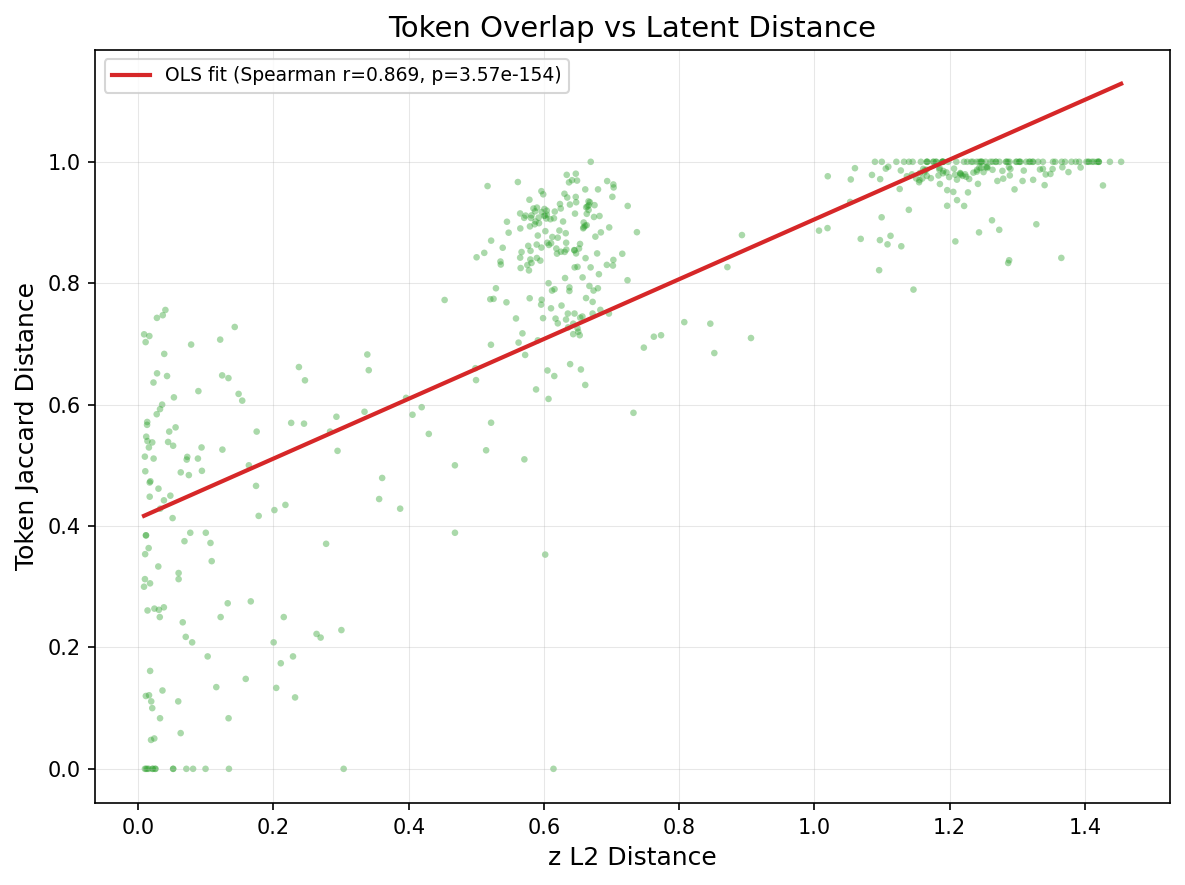
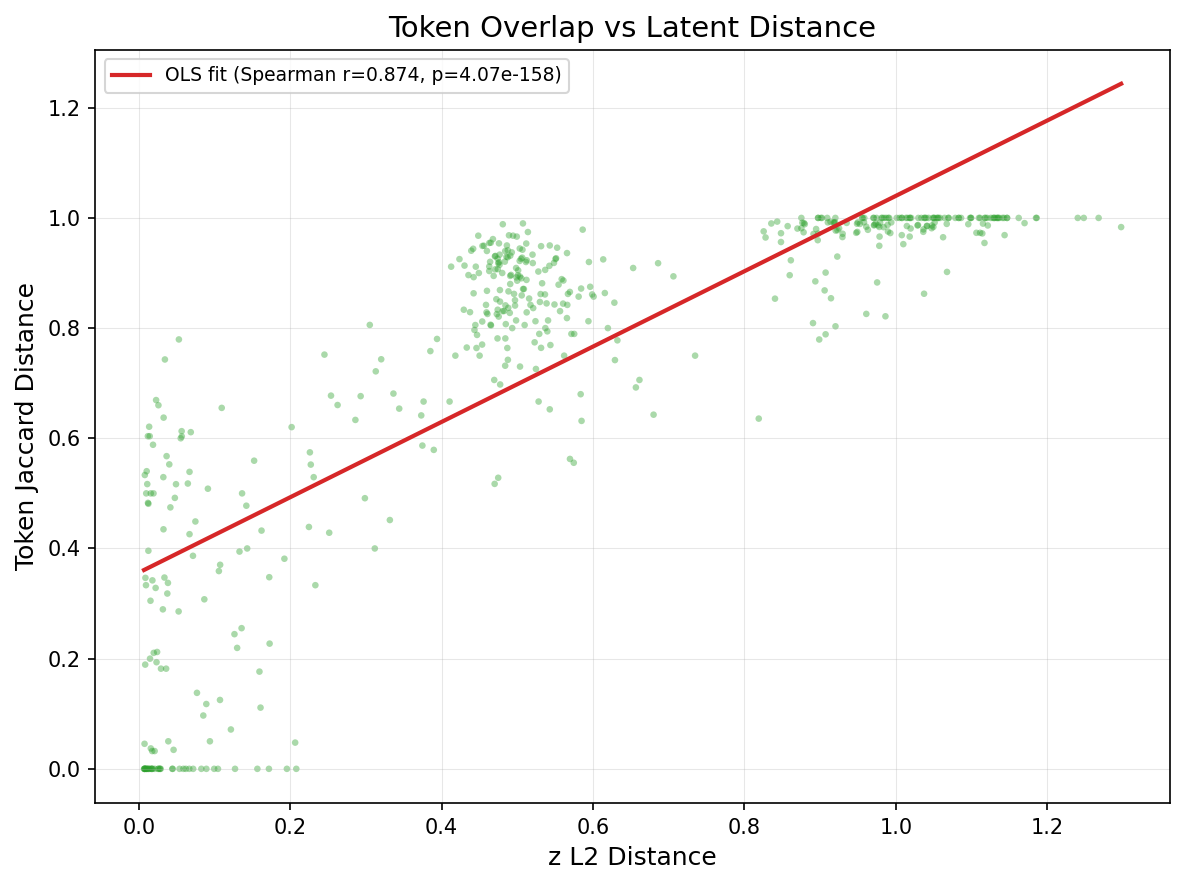
feat: Hindi/Arabic IPA sanitization + epoch 36 visualizations
- Pre-filter Hindi/Arabic source text: reject code-mixed lines (>50%
  Latin loanwords), strip ASCII loanwords before epitran conversion
- Post-process Hindi IPA: strip leaked Devanagari, apply word-final
  schwa deletion (Ohala 1983 rule)
- Post-process Arabic IPA: strip leaked Arabic script characters
- Fix clustering heatmap: larger figure (12x10), font size 7 for
  readability; switch ward+cosine to average+cosine for consistency
- Regenerate all 28 visualizations from epoch 36 checkpoint

diff --git a/src/lfm/data/loaders/ipa.py b/src/lfm/data/loaders/ipa.py
@@ -7,12 +7,18 @@ producing a truly uniform phonetic representation across all languages.
 
 Words not found in the CMU dictionary (English) or not convertible via
 epitran are dropped.
+
+Language-specific post-processing:
+    Hindi (hin): strip leaked Devanagari, drop Latin-script loanwords,
+    apply schwa deletion heuristics for word-final position.
+    Arabic (ara): strip leaked Arabic script characters.
 """
 
 from __future__ import annotations
 
 import logging
 import re
+import unicodedata
 
 logger = logging.getLogger(__name__)
 
@@ -175,15 +181,148 @@ def _clean_ipa(text: str) -> str:
     return cleaned.strip()
 
 
+# ── Script detection helpers ──────────────────────────────────────────
+
+
+def _has_script(text: str, script_name: str) -> bool:
+    """Check if text contains characters from a specific Unicode script."""
+    return any(
+        unicodedata.name(c, "").startswith(script_name)
+        for c in text if not c.isspace()
+    )
+
+
+def _is_native_script(word: str, script_name: str) -> bool:
+    """Check if a word contains characters from the expected native script."""
+    return any(
+        unicodedata.name(c, "").startswith(script_name)
+        for c in word if c.isalpha()
+    )
+
+
+def _is_ascii_loanword(word: str) -> bool:
+    """Check if a source-text word is a Latin-script loanword.
+
+    Only applied to the *raw source text* (Devanagari/Arabic), not IPA output.
+    A word like "Video" in Hindi text is a loanword; IPA output like "saːtʰ"
+    uses Latin characters but is not a loanword.
+    """
+    return all(c.isascii() for c in word if c.isalpha()) and any(c.isalpha() for c in word)
+
+
+# ── Hindi IPA post-processing ────────────────────────────────────────
+
+
+# Devanagari Unicode block: U+0900-U+097F, extensions U+A8E0-U+A8FF
+_DEVANAGARI_RE = re.compile(r"[\u0900-\u097F\uA8E0-\uA8FF]+")
+
+# Word-final schwa deletion: epitran inserts schwa after final consonants
+# but Hindi drops it in most word-final positions (Ohala 1983).
+_HINDI_FINAL_SCHWA_RE = re.compile(r"ə(?=\s|$)")
+
+
+def _prefilter_hindi(raw_text: str) -> str | None:
+    """Pre-filter Hindi source text before epitran conversion.
+
+    1. Reject lines where >30% of words are Latin-script loanwords.
+    2. Strip Latin-script loanwords from the text.
+
+    Returns:
+        Filtered text, or ``None`` to reject the line entirely.
+    """
+    words = raw_text.split()
+    if not words:
+        return None
+
+    native = [w for w in words if not _is_ascii_loanword(w)]
+    if len(native) < len(words) * 0.5:
+        return None  # too code-mixed
+
+    return " ".join(native)
+
+
+def _postprocess_hindi(ipa: str) -> str | None:
+    """Post-process Hindi IPA to fix epitran artifacts.
+
+    1. Strip any leaked Devanagari characters.
+    2. Apply word-final schwa deletion heuristic.
+
+    Args:
+        ipa: Raw IPA from epitran (already source-filtered).
+
+    Returns:
+        Cleaned IPA, or ``None`` if too short.
+    """
+    # Strip leaked Devanagari
+    ipa = _DEVANAGARI_RE.sub("", ipa)
+
+    # Word-final schwa deletion
+    ipa = _HINDI_FINAL_SCHWA_RE.sub("", ipa)
+
+    ipa = " ".join(ipa.split()).strip()
+    return ipa if len(ipa) >= 10 else None
+
+
+# ── Arabic IPA post-processing ────────────────────────────────────────
+
+
+_ARABIC_RE = re.compile(r"[\u0600-\u06FF\u0750-\u077F\uFB50-\uFDFF\uFE70-\uFEFF]+")
+
+
+def _prefilter_arabic(raw_text: str) -> str | None:
+    """Pre-filter Arabic source text: reject/strip Latin loanwords."""
+    words = raw_text.split()
+    if not words:
+        return None
+
+    native = [w for w in words if not _is_ascii_loanword(w)]
+    if len(native) < len(words) * 0.5:
+        return None
+
+    return " ".join(native)
+
+
+def _postprocess_arabic(ipa: str) -> str | None:
+    """Post-process Arabic IPA: strip leaked Arabic script."""
+    ipa = _ARABIC_RE.sub("", ipa)
+    ipa = " ".join(ipa.split()).strip()
+    return ipa if len(ipa) >= 10 else None
+
+
+# Language → pre-filter and post-processor dispatch
+_PREFILTERS: dict[str, callable] = {
+    "hin": _prefilter_hindi,
+    "ara": _prefilter_arabic,
+}
+
+_POSTPROCESSORS: dict[str, callable] = {
+    "hin": _postprocess_hindi,
+    "ara": _postprocess_arabic,
+}
+
+
 def _convert_one(sample: tuple[str, str]) -> str | None:
     """Convert a single ``(lang, text)`` to IPA.  Module-level for pickling."""
     # Each worker gets its own converter (epitran is not thread-safe)
     global _worker_converter  # noqa: PLW0603
     if "_worker_converter" not in globals() or _worker_converter is None:
         _worker_converter = IPAConverter(drop_unconvertible=True)
-    ipa = _worker_converter.convert_line(sample[0], sample[1])
+    lang, text = sample
+    # Pre-filter (strip loanwords, reject code-mixed lines)
+    prefilter = _PREFILTERS.get(lang)
+    if prefilter is not None:
+        text = prefilter(text)
+        if text is None:
+            return None
+    ipa = _worker_converter.convert_line(lang, text)
     if not ipa:
         return None
+    # Post-process (strip leaked script, schwa deletion)
+    postprocess = _POSTPROCESSORS.get(lang)
+    if postprocess is not None:
+        ipa = postprocess(ipa)
+        if ipa is None:
+            return None
     ipa = _clean_ipa(ipa)
     if len(ipa) >= 10:
         return ipa
@@ -195,12 +334,25 @@ def _convert_one_labeled(sample: tuple[str, str]) -> tuple[str, str] | None:
     global _worker_converter  # noqa: PLW0603
     if "_worker_converter" not in globals() or _worker_converter is None:
         _worker_converter = IPAConverter(drop_unconvertible=True)
-    ipa = _worker_converter.convert_line(sample[0], sample[1])
+    lang, text = sample
+    # Pre-filter (strip loanwords, reject code-mixed lines)
+    prefilter = _PREFILTERS.get(lang)
+    if prefilter is not None:
+        text = prefilter(text)
+        if text is None:
+            return None
+    ipa = _worker_converter.convert_line(lang, text)
     if not ipa:
         return None
+    # Post-process (strip leaked script, schwa deletion)
+    postprocess = _POSTPROCESSORS.get(lang)
+    if postprocess is not None:
+        ipa = postprocess(ipa)
+        if ipa is None:
+            return None
     ipa = _clean_ipa(ipa)
     if len(ipa) >= 10:
-        return (sample[0], ipa)
+        return (lang, ipa)
     return None
 
 

diff --git a/src/lfm/visualize/clustering.py b/src/lfm/visualize/clustering.py
@@ -110,12 +110,12 @@ class ClusteringVisualization(BaseVisualization):
 
         if linkage_method == "ward" and metric == "cosine":
             warnings.warn(
-                "Ward linkage requires Euclidean distance; switching metric "
-                "from 'cosine' to 'euclidean'.",
+                "Ward linkage requires Euclidean distance; switching linkage "
+                "from 'ward' to 'average'.",
                 UserWarning,
                 stacklevel=2,
             )
-            metric = "euclidean"
+            linkage_method = "average"
 
         # Normalize metric name: config uses "l2" as alias for euclidean
         if metric == "l2":
@@ -213,7 +213,7 @@ class ClusteringVisualization(BaseVisualization):
         labels_ordered = [labels[i] for i in order]
         codes_ordered = [codes[i] for i in order]
 
-        fig, ax = plt.subplots(figsize=FIGSIZE_SINGLE)
+        fig, ax = plt.subplots(figsize=(12, 10))
 
         sns.heatmap(
             dist_ordered,
@@ -221,6 +221,7 @@ class ClusteringVisualization(BaseVisualization):
             yticklabels=labels_ordered,
             annot=True,
             fmt=".2f",
+            annot_kws={"size": 7},
             cmap="YlOrRd",
             square=True,
             linewidths=0.5,
